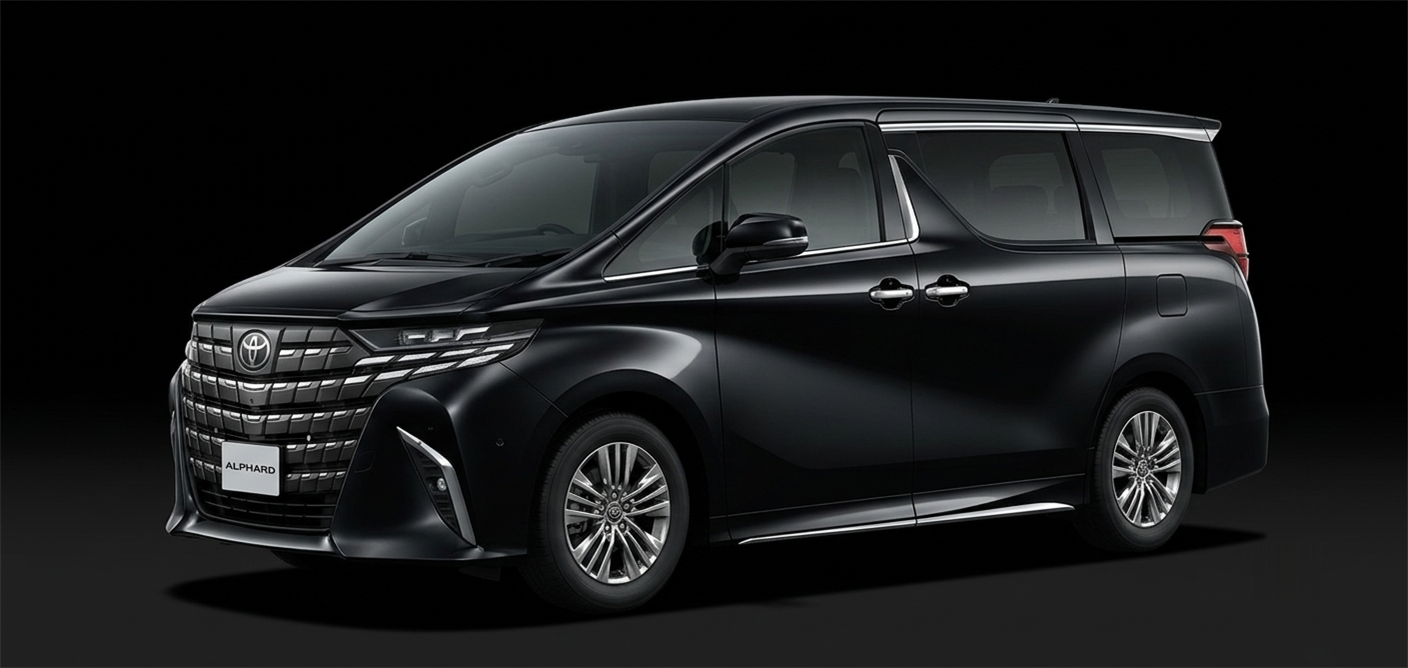
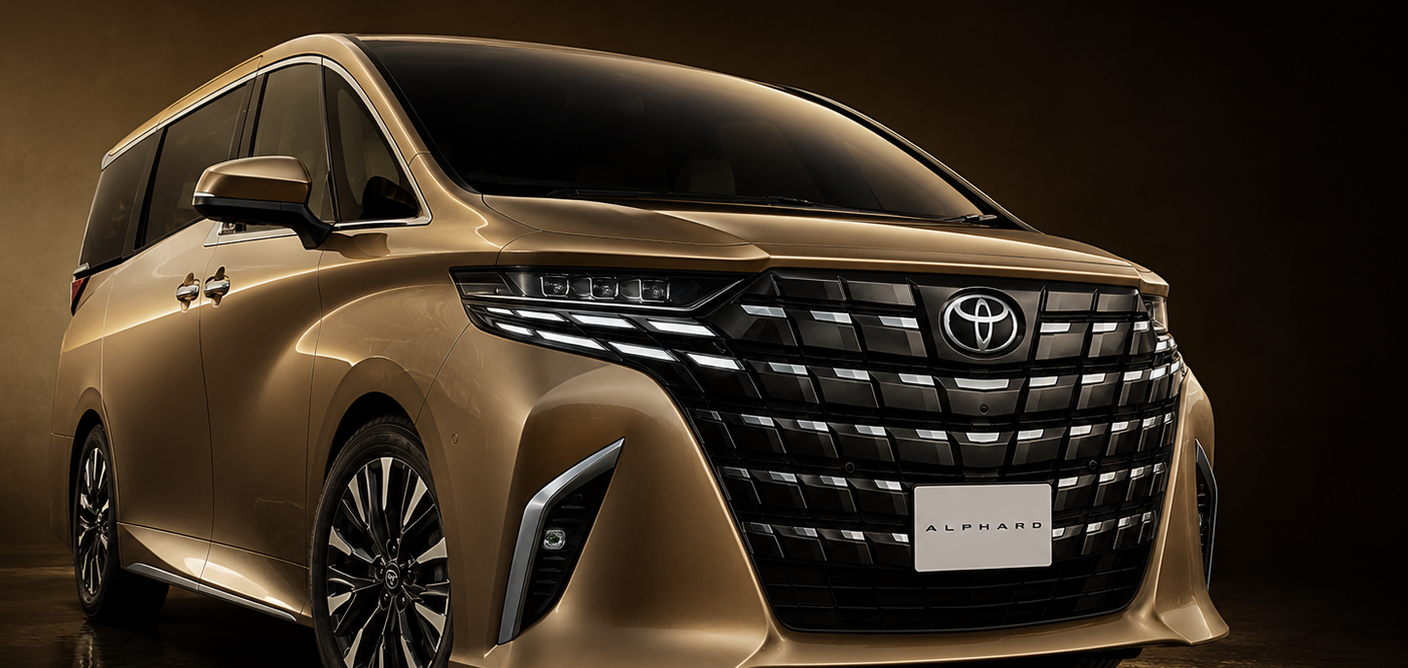
feat: switch Alphard hero photo to gold

diff --git a/src/cars/alphard.js b/src/cars/alphard.js
@@ -133,6 +133,13 @@ export default {
   // never render this as a spec on the page.
   referenceLengthMm: 4945,
   tagline: 'かたちは、時代を語る。',
+  // 2026-07-30: heroImage was swapped to a gold-painted photo by direct
+  // user request, as a deliberate one-off exception to
+  // representativeColor above -- Timeline/Detail/Compare for all 4
+  // generations still show Black (202), matching representativeColor.
+  // Do not "fix" this mismatch by regenerating the other images or by
+  // changing representativeColor without asking first; both were an
+  // explicit choice, not an oversight.
   heroImage: '/images/cars/alphard/hero-gen4-3q.webp',
   // Drives <title>/description/canonical/OGP/Twitter -- see the
   // seo-inject plugin in vite.config.js. Nothing else in this page's
